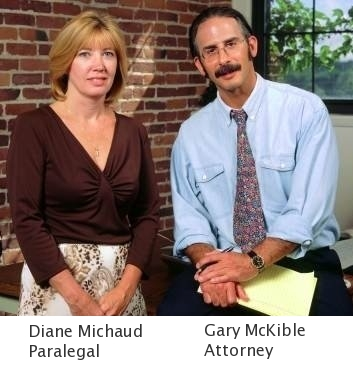
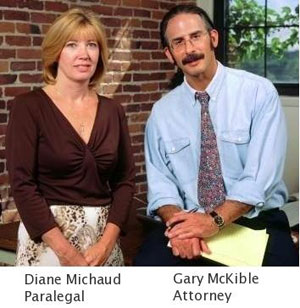
Emptor update.

diff --git a/home.html b/home.html
@@ -1,7 +1,10 @@
 <html>
+<table width="800">
 <head>
 <title>McKible Law Office</title>
-<link rel="STYLESHEET" href="style.css" type="text/css" media="screen">
+<link rel="STYLESHEET" href="http://mckible.com/style.css" type="text/css" media="screen">
+<link href="style.css" rel="stylesheet" type="text/css">
+<link href="stylesheet.css" rel="stylesheet" type="text/css">
 </head>
 
 <body>
@@ -10,12 +13,14 @@
 
 
 <div class="navigation">
-  <span><a href="index.html">Home</a></span>
+  <span><a href="/">Home</a></span>
   <span><a href="faq.html">Frequently Asked Questions</a></span>
   <span><a href="contact.html">Contact &amp; Directions</a></span>
 </div>
 
-
+<table>
+<tr>
+<td>
 <div class="content">
   <div class="left">
     <div class="title">Injured?</div>
@@ -36,19 +41,27 @@
     
       
   </div>
-  <img src="images/welcome.jpg" class="left-margin"/>
-  <br /><br /><br /><br /><br /><br />
+
+  </td>
+  <td><BR><BR>
+  <img src="images/welcome_300.jpg" class="left-margin"/>
+  <br /><br /><br />
+
+  </td>
+  </tr>
+  </table>
+<table><tr><td><br />
   <div class="subtitle">
     <p>Statewide New Hampshire Practice</p>
     <p>Thousands of satisfied clients over 25 years</p>
     <p>No Recovery - No Fee</p>
-  </div>
+  </div></td></tr>
   
+ <tr><td> 
   <div class="footer">
     2 Pillsbury Street, Suite 101 | Concord, NH 03301 | <a href="disclaimer.html">Disclaimer</a> | McKible 2006 
   </div>
- 
-</div>
+</td></tr></table>
 
 <script src="http://www.google-analytics.com/urchin.js" type="text/javascript">
 </script>

diff --git a/style.css b/style.css
@@ -1,15 +1,15 @@
-body{
-  margin:  1em 1em 3em 1em;
+.body{
+  margin: 1em 1em 3em 1em;
   background:  #fff url(/images/bg-fade.png) repeat-x;
   font-family: "Lucida Grande", verdana, sans-serif;
   color: #333;
-  width: 880px;
+  width: 770px;
 }
 
 a{color: #333;text-decoration: none;}
 a:visited{color: #333;}
 
-img{margin-left: 2em;}
+img{margin-left: 0em;}
 
 .title{
   text-align: center;
@@ -34,7 +34,7 @@ img{margin-left: 2em;}
   margin: 0.5em 0 0.5em 0;
 }
 
-.navigation{margin: 0;  background: #561420;}
+.navigation{margin: 0;  background: #561420; font-family:Arial, Helvetica, sans-serif;}
 .navigation a{color:#fff;text-decoration: none;}
 .navigation a:visited{color:#fff;}
 .navigation span{padding: 0 1em 0 6em;}

diff --git a/contact.html b/contact.html
@@ -1,7 +1,10 @@
 <html>
+<table width="800">
 <head>
 <title>McKible Law Office - New Hampshire Injury Attorney</title>
-<link rel="STYLESHEET" href="style.css" type="text/css" media="screen">
+<link rel="STYLESHEET" href="http://mckible.com/style.css" type="text/css" media="screen">
+<link href="style.css" rel="stylesheet" type="text/css">
+<link href="stylesheet.css" rel="stylesheet" type="text/css">
 </head>
 
 <body>
@@ -11,7 +14,7 @@
 </div>
 
 <div class="navigation">
-  <span><a href="/">Home</a></span>
+  <span><a href="index.html">Home</a></span>
   <span><a href="faq.html">Frequently Asked Questions</a></span>
   <span><a href="contact.html">Contact &amp; Directions</a></span>
 </div>

diff --git a/disclaimer.html b/disclaimer.html
@@ -16,7 +16,7 @@
 </div>
 
 <div class="navigation">
-  <span><a href="/">Home</a></span>
+  <span><a href="index.html">Home</a></span>
   <span><a href="faq.html">Frequently Asked Questions</a></span>
   <span><a href="contact.html">Contact &amp; Directions</a></span>
 </div>
